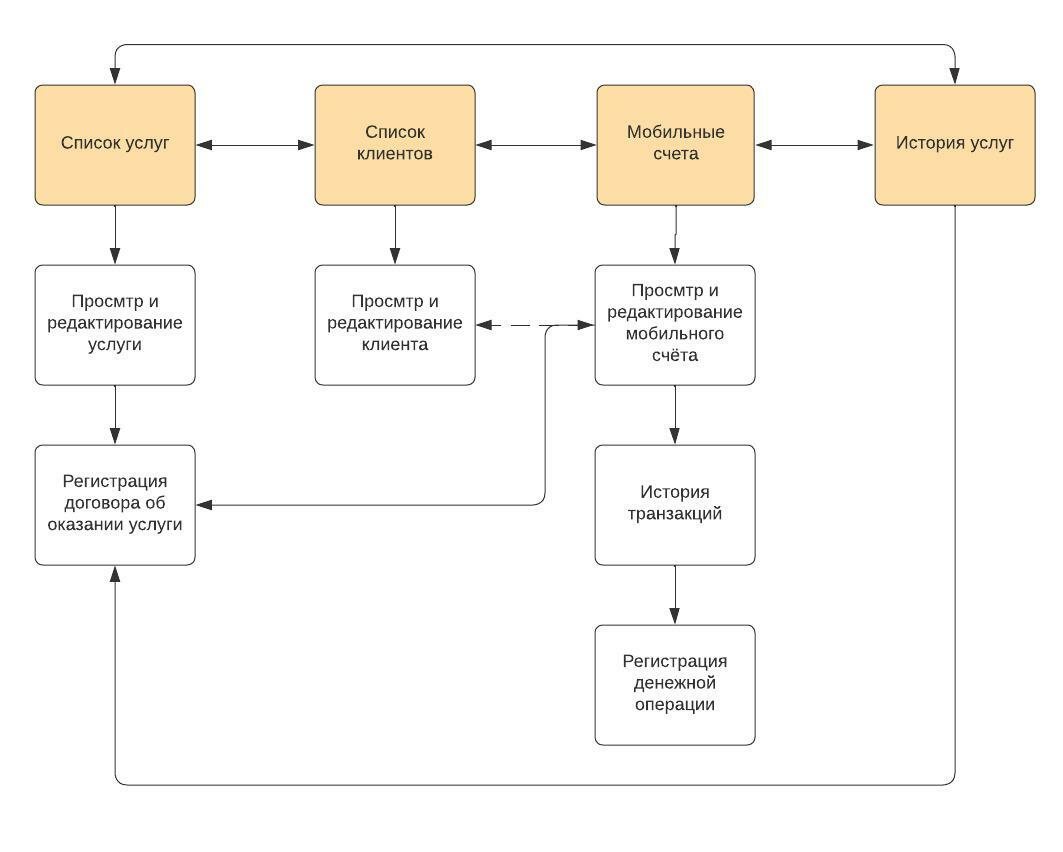
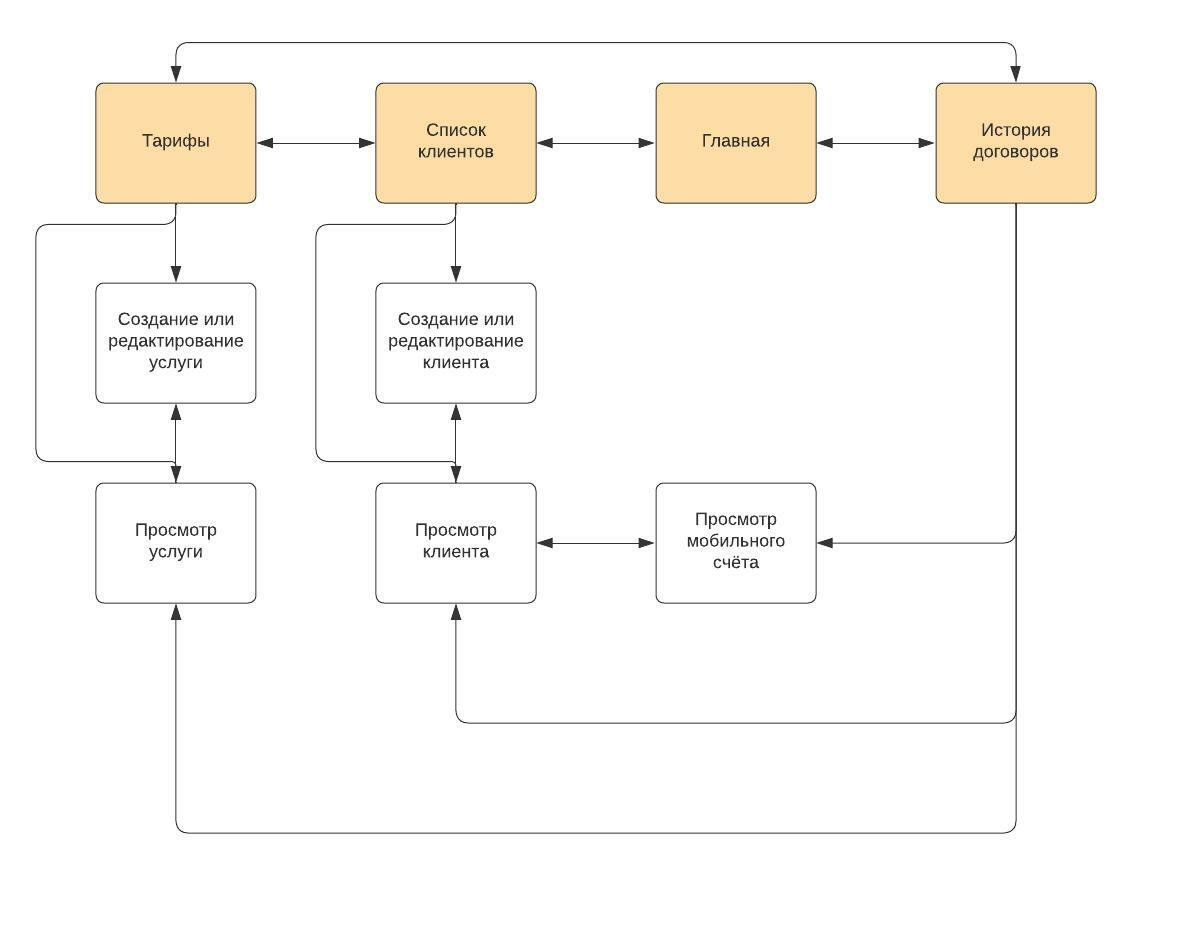
add update service, fix readme

diff --git a/src/main/resources/templates/editService.html b/src/main/resources/templates/editService.html
@@ -1,0 +1,53 @@
+<!DOCTYPE HTML>
+<html xmlns:th="http://www.thymeleaf.org" lang="en">
+<head>
+  <title>Редактировать клиента</title>
+  <link rel="stylesheet" href="https://stackpath.bootstrapcdn.com/bootstrap/4.3.1/css/bootstrap.min.css"
+        integrity="sha384-ggOyR0iXCbMQv3Xipma34MD+dH/1fQ784/j6cY/iJTQUOhcWr7x9JvoRxT2MZw1T" crossorigin="anonymous">
+  <meta http-equiv="Content-Type" content="text/html; charset=UTF-8"/>
+  <style>
+    .indent {
+      margin-left: 30px;
+      margin-right: 30px;
+      margin-top: 20px;
+    }
+  </style>
+</head>
+<body>
+<div th:replace="general :: page-header"> </div>
+
+<div class="indent">
+  <form method="post" action="/saveService">
+
+    <input type="hidden" name="serviceId" th:value="${service.getId()}"/>
+
+    <label for="serviceNameService">Название:</label>
+    <input type="text" id="serviceNameService" name="serviceNameService" required th:value="${service.getNameService()}"><br><br>
+
+    <label for="serviceNumberOfDevices">Количество подключаемых устройств:</label>
+    <input type="text" id="serviceNumberOfDevices" name="serviceNumberOfDevices" required th:value="${service.getNumberOfDevices()}"><br><br>
+
+    <label for="serviceMinutes">Минуты:</label>
+    <input type="text" id="serviceMinutes" name="serviceMinutes" required th:value="${service.getMinutes()}"><br><br>
+
+    <label for="serviceSms">SMS:</label>
+    <input type="text" id="serviceSms" name="serviceSms" required th:value="${service.getSms()}"><br><br>
+
+    <label for="serviceInternet">Интернет:</label>
+    <input type="text" id="serviceInternet" name="serviceInternet" required th:value="${service.getInternet()}"><br><br>
+
+    <label for="serviceTariffFee">Стоимость:</label>
+    <input type="text" id="serviceTariffFee" name="serviceTariffFee" required th:value="${service.getTariffFee()}"><br><br>
+
+    <label for="serviceMaxCredit">Макисмальный кредит:</label>
+    <input type="text" id="serviceMaxCredit" name="serviceMaxCredit" required th:value="${service.getMaxCredit()}"><br><br>
+
+    <input id="submitButton" type="submit" value="Сохранить" class="btn btn-primary">
+  </form>
+</div>
+
+<div th:replace="general :: site-footer"></div>
+<div th:replace="general :: site-script"></div>
+
+</body>
+</html>

diff --git a/src/main/resources/templates/service.html b/src/main/resources/templates/service.html
@@ -32,6 +32,20 @@
 
   <!--edit delete order button group-->
 
+  <div class="btn-toolbar" role="toolbar" aria-label="Toolbar with button groups">
+    <div class="btn-group mr-2" role="group" aria-label="First group">
+      <form style="margin-right: 30px" method="get" action="/editService">
+        <input type="hidden" name="serviceId" th:value="${service.getId()}"/>
+        <button id="editButton" type="submit" class="btn btn-secondary">Редактировать информацию об услуге
+        </button>
+      </form>
+      <form style="margin-right: 30px" method="post" action="/removeService">
+        <input type="hidden" name="serviceId" th:value="${service.getId()}"/>
+        <button id="deleteButton" type="submit" class="btn btn-secondary">Удалить услугу
+        </button>
+      </form>
+    </div>
+  </div>
   <!--end of button group-->
 
 </div>

diff --git a/src/main/resources/templates/mobileAccount.html b/src/main/resources/templates/mobileAccount.html
@@ -39,7 +39,7 @@
     </thead>
     <tbody>
     <tr th:if="${mobileAccountDAO.getTransactions(mobileAccount.getId()).isEmpty()}">
-      <td colspan="6"> В базе пока нет ни одного человека.</td>
+      <td colspan="6"> В базе пока нет ни одной транзакции по даннному мобильному счёту.</td>
     </tr>
     <tr th:each="transaction : ${mobileAccountDAO.getTransactions(mobileAccount.getId())}">
       <td>

diff --git a/src/main/resources/templates/services.html b/src/main/resources/templates/services.html
@@ -18,6 +18,10 @@
 
 <div class="indent">
   <br>
+  <form method="get" action="/editService">
+    <button id="addServiceButton" type="submit" class="btn btn-primary">Добавить услугу</button>
+  </form>
+  <br>
 
   <table class="table table-bordered">
     <thead class="table-success">

diff --git a/src/main/java/ru/msu/cmc/Webprak/controllers/ServicesController.java b/src/main/java/ru/msu/cmc/Webprak/controllers/ServicesController.java
@@ -46,4 +46,63 @@ public class ServicesController {
         model.addAttribute("service", service);
         return "service";
     }
+
+    @GetMapping("/editService")
+    public String editPersonalAccountPage(@RequestParam(name = "serviceId", required = false) Long serviceId, Model model) {
+        if (serviceId == null) {
+            model.addAttribute("service", new Service());
+            model.addAttribute("serviceDAO", serviceDAO);
+            return "editService";
+        }
+
+        Service service = serviceDAO.getById(serviceId);
+
+        if (service == null) {
+            model.addAttribute("error_msg", "В базе нет человека с ID = " + serviceId);
+            return "errorPage";
+        }
+
+        model.addAttribute("service", service);
+        model.addAttribute("serviceDAO", serviceDAO);
+        return "editService";
+    }
+
+    @PostMapping("/saveService")
+    public String saveServicePage(@RequestParam(name = "serviceId", required = false) Long serviceId,
+                                  @RequestParam(name = "serviceNameService") String serviceNameService,
+                                  @RequestParam(name = "serviceNumberOfDevices") Long serviceNumberOfDevices,
+                                  @RequestParam(name = "serviceMinutes") Double serviceMinutes,
+                                  @RequestParam(name = "serviceSms") Long serviceSms,
+                                  @RequestParam(name = "serviceInternet") Double serviceInternet,
+                                  @RequestParam(name = "serviceTariffFee") Long serviceTariffFee,
+                                  @RequestParam(name = "serviceMaxCredit") Long serviceMaxCredit,
+                                Model model) {
+
+        if (serviceId == null) {
+            Long id = 1000L;
+            Service service = new Service(id, serviceNameService, serviceNumberOfDevices, serviceMinutes, serviceSms, serviceInternet, serviceTariffFee, serviceMaxCredit);
+            serviceDAO.save(service);
+            return String.format("redirect:/service?serviceId=%d", service.getId());
+
+        }
+        else {
+            Service service = serviceDAO.getById(serviceId);
+            service.setNameService(serviceNameService);
+            service.setNumberOfDevices(serviceNumberOfDevices);
+            service.setMinutes(serviceMinutes);
+            service.setSms(serviceSms);
+            service.setInternet(serviceInternet);
+            service.setTariffFee(serviceTariffFee);
+            service.setMaxCredit(serviceMaxCredit);
+            serviceDAO.update(service);
+            return String.format("redirect:/service?serviceId=%d", service.getId());
+
+        }
+    }
+
+    @PostMapping("/removeService")
+    public String removeServicePage(@RequestParam(name = "serviceId") Long serviceId) {
+        serviceDAO.deleteById(serviceId);
+        return "redirect:/services";
+    }
 }

diff --git a/src/main/java/ru/msu/cmc/Webprak/models/Service.java b/src/main/java/ru/msu/cmc/Webprak/models/Service.java
@@ -37,9 +37,6 @@ public class Service implements CommonEntity<Long>{
     @Column(name = "internet")
     private Double internet;
 
-    @Column(name = "unlimited_apps")
-    private String unlimitedApps;
-
     @NonNull
     @Column(name = "tariff_fee")
     private Long tariffFee;

diff --git a/README.md b/README.md
@@ -9,108 +9,97 @@
 ![](scheme_pages.jpeg)
 
 ### Меню: 
-+ Услуги
++ На главную
 + Клиенты
-+ Мобильные счета
-+ История
++ Тарифы
++ История договоров
+
+### Главная
+
+Страница с описанием сайта 
 
 ### Услуги
 
-Таблица с услугами 
+Таблица с услугами, переходы на страницы просмотр услуг
 
-Добавление услуги – переход на пустую страницу информации об услуге
+Кнопка "Добавить услугу": *Ссылка на страницу "Создание или редактирование услуги"*
 
-Сортировка (по величине абонентской платы, по алфавиту)
 
-Фильтрация (по наименованию, по величине абонентской платы, по типу (интернет, звонки, SMS, безлимитные приложения)
 ### Клиенты
 
-Таблица с клиентами
+Таблица с клиентами, переходы на просмотр клиента
 
-Добавление клиента – переход на пустую страницу информации о клиенте
+Добавление клиента – переход на  страницу создания клиенте
 
-Сортировка (по ФИО клиента)
 
-Фильтрация (по ФИО)
 
-### Мобильные счета
-
-Таблица с мобильными счетами
-
-Добавление номера – переход на пустую страницу информации о номере
-
-Сортировка (по номеру)
-
-Фильтрация (по номеру, по ФИО владельца)
 ### История 
 Таблица со всеми догаворами об оказании услуг
 
-Сортировка (по дате подключения и отключения, по наименованию услуги, по номеру, по ФИО клиента, по выбранному плану оплаты)
+Фильтрация  (по id услуги)
 
-Фильтрация (по дате подключения и отключения, по наименованию услуги, по номеру, по ФИО клиента, по выбранному плану оплаты)
 
-*Ссылка на страницу "Регистрация договора об оказанной услуге"*
+### Просмотр услуги
 
-### Просмотр и редактирование услуги
+Информация:
++ Название услуги
++ Количество подключаемых устройств:
++ Минуты
++ SMS
++ Интернет
++ Стоимость
++ Макисмальный кредит
+
+Кнопка "Удалить услугу"
+
+Кнопка "Редактировать услугу": *Ссылка на страницу "Создание или редактирование услуги"*
+
+### Создание или редактирование услуги
 
 Поля для заполнения:
 + Название услуги
-+ Абонентская плата
-+ Количество устройств
-+ Минуты на звонки
-+ Количество SMS
-+ Интренет
-+ Безлимитные приложения
++ Количество подключаемых устройств:
++ Минуты
++ SMS
++ Интернет
++ Стоимость
++ Макисмальный кредит
 
-*Ссылка на страницу "Регистрация договора об оказании услуги"*
+Кнопка "Сохранить"
 
-### Просмотр и редактирование информации о клиенте
+
+### Просмотр информации о клиенте
+
+Информация:
++ Тип клиента
++ Имя или Название фирмы
++ Отчество
++ Фамилия
++ Электронный адрес
++ Мобильные счета клиента *Ссылки на страницы мобильных счетов*
+
+Кнопка "Удалить клиента"
+
+Кнопка "Редактировать клиента": *Ссылка на страницу "Создание и редактирование информации о клиенте"*
+
+### Создание и редактирование информации о клиенте
 
 Поля для заполнения:
 + Тип клиента
 + Имя или Название фирмы
-+ Фамилия
 + Отчество
++ Фамилия
 + Электронный адрес
 
-### Просмотр и редактирование информации о счёте
+### Просмотр  информации о мобильном счёте
 
-Поля для заполнения:
+Информация:
 + Номер телефона
-+ Владелец (ссылка на страницу Информация о клиенте)
++ Владелец: *Ссылка на страницу "Просмотр информации о клиенте"*
 + Баланс
-+ Используемые услуги (ссылки на страницы Информация об услуге)
++ Таблица с денежными операциями
 
-*Ссылка на страницу "Регистрация договора об оказании услуги"*
 
-*Ссылка на страницу "Регистрация денежной операции"*
-
-### История транзакций
-
-Таблица с денежными операциями
-
-Сортировка (по дате и времени, типу, сумме, назначению, номеру)
-
-Фильтрация (по дате и времени, типу, сумме, назначению, номеру)
-
-*Ссылка на страницу "Регистрация денежной операции"*
-
-### Регистрация денежной операции
-
-Поля для заполнения:
-+ Номер телефона
-+ Сумма, 
-+ Дата 
-+ Тип операции
-
-### Регистрация договора об оказании услуги
-
-Поля для заполнения:
-+ Номер счёта
-+ Наименование услуги
-+ Номера
-+ Дата и время подключения
-+ Дата и время отключения
 
 ## Сценарии использования
 
@@ -119,18 +108,18 @@
 
 Выбор в меню "Кленты"
 
-#### Регистрация договора об оказании услуги
-    
-Выбор в меню "Услуги" -> Переход на страницу услуги -> Регистрация договора об оказанной услуге -> Переход на пустую страницу Договор об оказанной услуге и заполнение полей -> Нажатие кнопки Сохранить
-    
 #### Регистрация поступлений на счет и списаний
     
-Выбор в меню "Мобильные счета" -> Переход в журнал транцакций -> Добавление денежной операции -> Заполнение полей журнала -> Нажатие кнопки Сохранить
+Выбор в меню "История договоров" -> Переход на страницу "Просмотр информации о мобильном счёте", просмотр журнала транзакций
     
-#### Добавление данных о клиенте
+#### Добавление нового клиента
 
-Выбор в меню "Клиенты" -> Добавление клиента – Переход на пустую страницу информации о клиенте, заполнение полей -> Нажатие кнопки Сохранить
-    
-#### Редактирование (удаление) услуги
+Выбор в меню "Клиенты" -> Добавить клиента – Переход на пустую страницу создания клиента, заполнение полей -> Нажатие кнопки Сохранить
 
-Выбор в меню "Услуги" -> Применение фильтра по наименованию услуги -> Переход на страницу Информация об услуге -> Переход в режим редактирования -> Нажатие кнопки Сохранить (Удалить)
+#### Удаление  клиента
+
+Выбор в меню "Клиенты" -> Выбор клиента из таблицы, переход на страницу "Просмотр информации о клиенте" -> Удалить клиента
+
+#### Редактирование услуги
+
+Выбор в меню "Тарифы" -> Выбор услуги из таблицы, переход на страницу Информация об услуге -> Редактировать услугу -> Изменение полей -> Нажатие кнопки Сохранить
